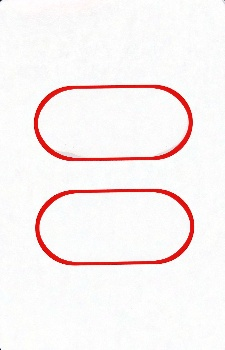
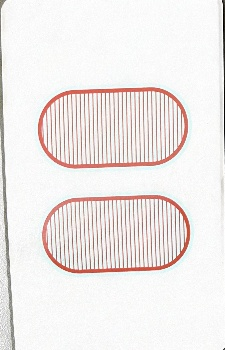
Add new shape files, util.py

diff --git a/test.py b/test.py
@@ -4,8 +4,8 @@ import reference as ref
 import finder as find
 import os
 
-IN_DIR = "img/solid"
-FIN_DIR = "test/solid"
+IN_DIR = "img/striped"
+FIN_DIR = "test/striped"
 
 
 def remove_shadow(img):
@@ -24,7 +24,7 @@ def remove_shadow(img):
 
     result = cv2.merge(result_planes)
     result_norm = cv2.merge(result_norm_planes)
-    cv2.imwrite('shadows_out_norm.jpg', result_norm)
+    # cv2.imwrite('shadows_out_norm.jpg', result_norm)
     return result_norm
     # cv2.imwrite('shadows_out.jpg', result)
     # cv2.imwrite('shadows_out_norm.jpg', result_norm)
@@ -65,26 +65,13 @@ def retrieve(img, shapes, img2):
     bkg_level = img_blur[int(5)][int(5)]
     thresh_level = bkg_level + ref.THRESH_C
     retval, img_bw = cv2.threshold(img_blur, thresh_level, 255, cv2.THRESH_BINARY)
-
-    # img_bw = cv2.adaptiveThreshold(img_gray, 255, cv2.ADAPTIVE_THRESH_GAUSSIAN_C, cv2.THRESH_BINARY, 71, 2)
-    # img_bw_blur = cv2.medianBlur(img_bw, 7)
-
     img_canny = cv2.Canny(img_bw, ref.CANNY_THRESH, ref.CANNY_THRESH/2)
     img_dilated = cv2.dilate(img_canny, kernel=np.ones((5, 5), np.uint8), iterations=2)
-
-    # img_gray = cv2.cvtColor(img, cv2.COLOR_BGR2GRAY)
-    # img_canny = cv2.Canny(img_gray, 150, 200, apertureSize=3)
-    # cv2.imwrite("Canny.png", img_canny)
-    # element = cv2.getStructuringElement(cv2.MORPH_RECT, (5, 3), (-1, -1))
-    # img_dilated = cv2.dilate(img_canny, element)
-    # cv2.imwrite("Eroded.png", img_dilated)
 
     contours, hierarchy = cv2.findContours(img_dilated, cv2.RETR_EXTERNAL, cv2.CHAIN_APPROX_SIMPLE)
     img_stack = ref.stack_images(1, ([img, img_gray, img_blur],
                                       [img_bw, img_contour, img_dilated]))
 
-    # img_stack = stack_images(1, ([img, img_gray, img],
-    #                                    [img_canny, img_contour, img_dilated]))
     card_imgs = {}
     names = []
     for cnt in contours:
@@ -129,6 +116,7 @@ def retrieve(img, shapes, img2):
     cv2.imshow("Stack", img_stack)
     cv2.waitKey(ref.WAIT_TIME)
     return card_imgs, names, img_contour
+
 
 def get_contours(name, img, img_contour, img_gray, img_blur, img_canny, img_dilated, gs):
     # contours, hierarchy = cv2.findContours(img_canny, cv2.RETR_EXTERNAL, cv2.CHAIN_APPROX_SIMPLE)
@@ -176,6 +164,40 @@ def get_contours(name, img, img_contour, img_gray, img_blur, img_canny, img_dila
     cv2.imshow("Stack", img_stack)
 
 
+def match(card, shapes):
+    best_shape_match_diff = 100000
+    best_shape_name = "tbd"
+    name = "placeholder"
+    if len(card.img) != 0:
+        # Difference the query card shape from each shape image; store the result with the least difference
+        for shape in shapes:
+            # print(len(card.img.shape))
+            # print(len(shape.img.shape))
+            img_gray = cv2.cvtColor(card.img, cv2.COLOR_BGR2GRAY)
+            img_blur = cv2.GaussianBlur(img_gray, (17, 17), 5)
+            bkg_level = img_gray[10][10]
+            # print(bkg_level)
+            thresh_level = bkg_level-30
+            retval, img_bw = cv2.threshold(img_blur, thresh_level, 255, cv2.THRESH_BINARY)
+
+
+            # show_wait("cycle", img_bw, 25)
+
+            diff_img = cv2.absdiff(img_bw, shape.img)
+            shape_diff = int(np.sum(diff_img) / 255)
+            cv2.imshow(ref.stack_images(0.8, ([img_bw],
+                                              [diff_img])))
+            cv2.waitKey(5000)
+
+            if shape_diff < best_shape_match_diff:
+                best_shape_match_diff = shape_diff
+                #print("jello")
+                best_shape_name = shape.name[0] + "_0" + shape.name[3]
+                # print(best_shape_match_diff, best_shape_name)
+    return name
+
+# processes & isolates cards from images
+# shadow removed, inside fill "removed"
 def process(gs=True):
     for filename in os.listdir(IN_DIR):
         if filename.endswith("." + ref.IMG_TYPE):
@@ -186,15 +208,16 @@ def process(gs=True):
             img_contour = img.copy()
             #img_contour = remove_shadow(path)
             img_gray = cv2.cvtColor(img, cv2.COLOR_BGR2GRAY)
-            img_blur = cv2.GaussianBlur(img_gray, (7, 7), 3)
+            img_blur = cv2.GaussianBlur(img_gray, (27, 27), 3)
             img_canny = cv2.Canny(img_blur, 50, 50)
             img_dilated = cv2.dilate(img_canny, kernel=np.ones((5, 5), np.uint8), iterations=2)
             #img = img_contour.copy()
+            # get_contours(filename, img, img_contour, img_gray, img_blur, img_canny, img_dilated, gs)
             get_contours(filename, img, img_contour, img_gray, img_blur, img_canny, img_dilated, gs)
             img_stack = ref.stack_images(0.8, ([img, img_gray, img_blur],
                                                [img_canny, img_contour, img_dilated]))
             cv2.imshow("Stack", img_stack)
-            cv2.waitKey(1000)
+            cv2.waitKey(3000)
 
 
 def run():
@@ -216,5 +239,7 @@ def run():
     cv2.waitKey(0)
 
 
+def matching():
+    card = ref.Card()
 # run()
-process(False)
+process()

diff --git a/reference.py b/reference.py
@@ -277,7 +277,6 @@ def retrieve(img, shapes):
     # img_dilated = cv2.dilate(img_canny, element)
     # cv2.imwrite("Eroded.png", img_dilated)
 
-
     contours, hierarchy = cv2.findContours(img_dilated, cv2.RETR_EXTERNAL, cv2.CHAIN_APPROX_SIMPLE)
     img_stack = stack_images(1, ([img, img_gray, img_blur],
                                       [img_bw, img_contour, img_dilated]))

diff --git a/finder.py b/finder.py
@@ -59,7 +59,7 @@ def get_vals(dict):
 
 def run():
     shapes = ref.load_shapes("shape/")
-    image = cv2.imread("test/IMG_0548.JPG")
+    image = cv2.imread("test/IMG_3667.jpg")
     #image = cv2.imread("shadows_out.jpg")
     imgs, names, output = ref.retrieve(image, shapes)
     num_cards = len(imgs)
